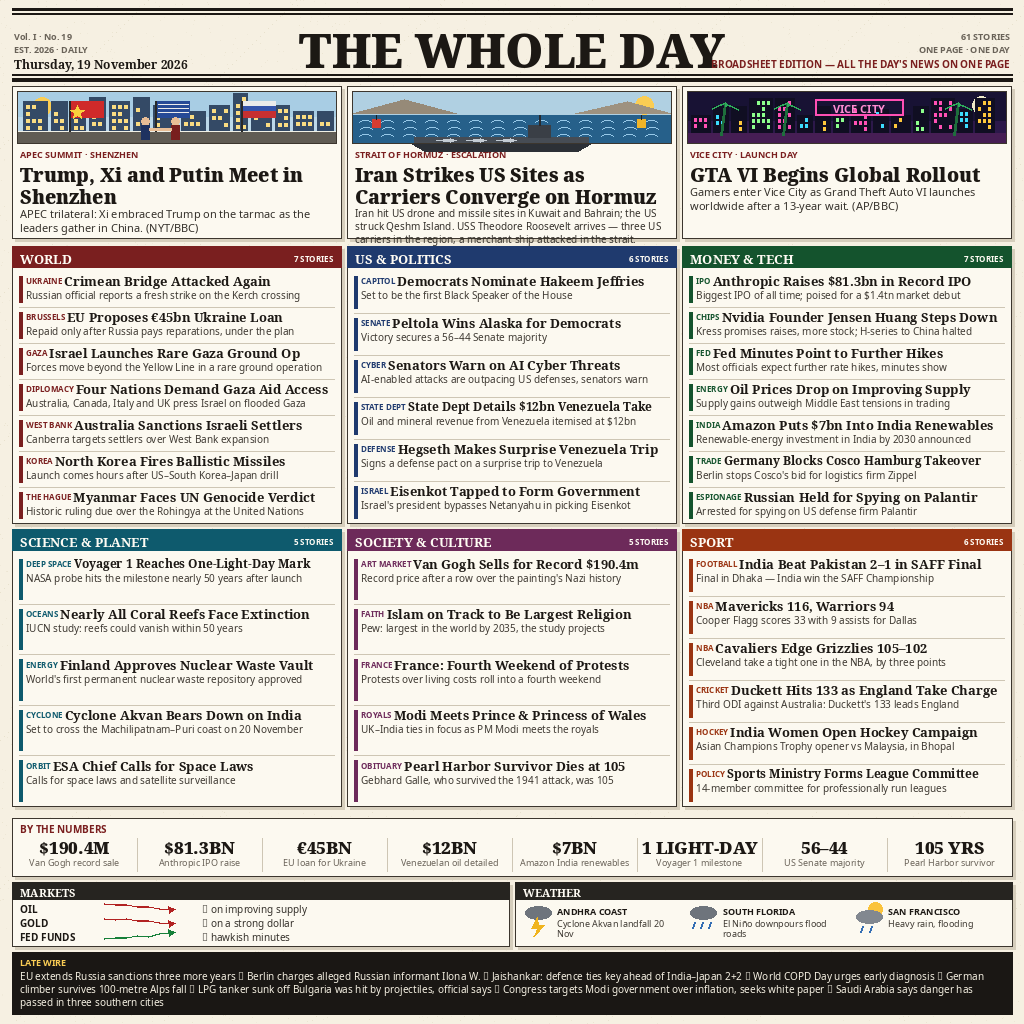
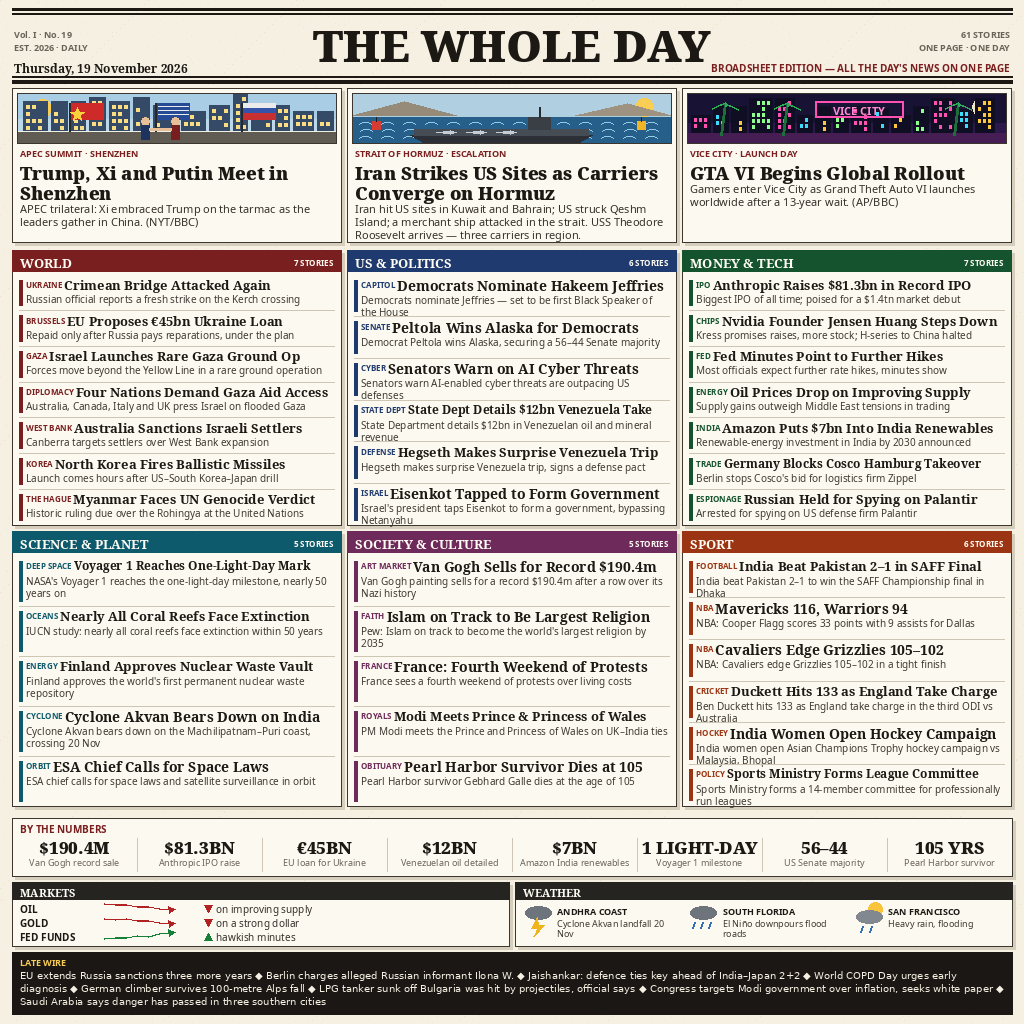
Revision rounds 1-2: fix masthead/hero overflow, drawn market arrows + DejaVu ticker glyphs, denser 2-line decks for 5-6 story sections, carrier kept in frame

Changed region(s): [[0.0, 0.0312, 1.0, 0.8125], [0.0312, 0.875, 0.9688, 1.0]]

diff --git a/daypage.py b/daypage.py
@@ -20,6 +20,7 @@ SERIF_REG = f"{NOTO}/NotoSerif-Regular.ttf"
 SANS_BOLD = f"{NOTO}/NotoSans-Bold.ttf"
 SANS_SEMI = f"{NOTO}/NotoSans-SemiBold.ttf"
 SANS_REG = f"{NOTO}/NotoSans-Regular.ttf"
+DEJAVU_SANS = "/usr/share/fonts/truetype/dejavu/DejaVuSans.ttf"  # has \u25c6\u25bc\u25b2
 
 _fonts = {}
 
@@ -50,10 +51,9 @@ HEROES = [
         "kind": "hormuz",
         "kicker": "STRAIT OF HORMUZ · ESCALATION",
         "headline": "Iran Strikes US Sites as Carriers Converge on Hormuz",
-        "deck": "Iran hit US drone and missile sites in Kuwait and Bahrain; "
-                "the US struck Qeshm Island. USS Theodore Roosevelt arrives "
-                "\u2014 three US carriers in the region, a merchant ship "
-                "attacked in the strait.",
+        "deck": "Iran hit US sites in Kuwait and Bahrain; US struck Qeshm "
+                "Island; a merchant ship attacked in the strait. USS Theodore "
+                "Roosevelt arrives \u2014 three carriers in region.",
     },
     {
         "kind": "vicecity",
@@ -84,17 +84,17 @@ SECTIONS = [
     ]),
     ("US & POLITICS", (31, 58, 110), [
         ("CAPITOL", "Democrats Nominate Hakeem Jeffries",
-         "Set to be the first Black Speaker of the House"),
+         "Democrats nominate Jeffries \u2014 set to be first Black Speaker of the House"),
         ("SENATE", "Peltola Wins Alaska for Democrats",
-         "Victory secures a 56\u201344 Senate majority"),
+         "Democrat Peltola wins Alaska, securing a 56\u201344 Senate majority"),
         ("CYBER", "Senators Warn on AI Cyber Threats",
-         "AI-enabled attacks are outpacing US defenses, senators warn"),
+         "Senators warn AI-enabled cyber threats are outpacing US defenses"),
         ("STATE DEPT", "State Dept Details $12bn Venezuela Take",
-         "Oil and mineral revenue from Venezuela itemised at $12bn"),
+         "State Department details $12bn in Venezuelan oil and mineral revenue"),
         ("DEFENSE", "Hegseth Makes Surprise Venezuela Trip",
-         "Signs a defense pact on a surprise trip to Venezuela"),
+         "Hegseth makes surprise Venezuela trip, signs a defense pact"),
         ("ISRAEL", "Eisenkot Tapped to Form Government",
-         "Israel's president bypasses Netanyahu in picking Eisenkot"),
+         "Israel's president taps Eisenkot to form a government, bypassing Netanyahu"),
     ]),
     ("MONEY & TECH", (20, 83, 45), [
         ("IPO", "Anthropic Raises $81.3bn in Record IPO",
@@ -114,41 +114,41 @@ SECTIONS = [
     ]),
     ("SCIENCE & PLANET", (14, 90, 109), [
         ("DEEP SPACE", "Voyager 1 Reaches One-Light-Day Mark",
-         "NASA probe hits the milestone nearly 50 years after launch"),
+         "NASA's Voyager 1 reaches the one-light-day milestone, nearly 50 years on"),
         ("OCEANS", "Nearly All Coral Reefs Face Extinction",
-         "IUCN study: reefs could vanish within 50 years"),
+         "IUCN study: nearly all coral reefs face extinction within 50 years"),
         ("ENERGY", "Finland Approves Nuclear Waste Vault",
-         "World's first permanent nuclear waste repository approved"),
+         "Finland approves the world's first permanent nuclear waste repository"),
         ("CYCLONE", "Cyclone Akvan Bears Down on India",
-         "Set to cross the Machilipatnam\u2013Puri coast on 20 November"),
+         "Cyclone Akvan bears down on the Machilipatnam\u2013Puri coast, crossing 20 Nov"),
         ("ORBIT", "ESA Chief Calls for Space Laws",
-         "Calls for space laws and satellite surveillance"),
+         "ESA chief calls for space laws and satellite surveillance in orbit"),
     ]),
     ("SOCIETY & CULTURE", (109, 42, 90), [
         ("ART MARKET", "Van Gogh Sells for Record $190.4m",
-         "Record price after a row over the painting's Nazi history"),
+         "Van Gogh painting sells for a record $190.4m after a row over its Nazi history"),
         ("FAITH", "Islam on Track to Be Largest Religion",
-         "Pew: largest in the world by 2035, the study projects"),
+         "Pew: Islam on track to become the world's largest religion by 2035"),
         ("FRANCE", "France: Fourth Weekend of Protests",
-         "Protests over living costs roll into a fourth weekend"),
+         "France sees a fourth weekend of protests over living costs"),
         ("ROYALS", "Modi Meets Prince & Princess of Wales",
-         "UK\u2013India ties in focus as PM Modi meets the royals"),
+         "PM Modi meets the Prince and Princess of Wales on UK\u2013India ties"),
         ("OBITUARY", "Pearl Harbor Survivor Dies at 105",
-         "Gebhard Galle, who survived the 1941 attack, was 105"),
+         "Pearl Harbor survivor Gebhard Galle dies at the age of 105"),
     ]),
     ("SPORT", (154, 52, 18), [
         ("FOOTBALL", "India Beat Pakistan 2\u20131 in SAFF Final",
-         "Final in Dhaka \u2014 India win the SAFF Championship"),
+         "India beat Pakistan 2\u20131 to win the SAFF Championship final in Dhaka"),
         ("NBA", "Mavericks 116, Warriors 94",
-         "Cooper Flagg scores 33 with 9 assists for Dallas"),
+         "NBA: Cooper Flagg scores 33 points with 9 assists for Dallas"),
         ("NBA", "Cavaliers Edge Grizzlies 105\u2013102",
-         "Cleveland take a tight one in the NBA, by three points"),
+         "NBA: Cavaliers edge Grizzlies 105\u2013102 in a tight finish"),
         ("CRICKET", "Duckett Hits 133 as England Take Charge",
-         "Third ODI against Australia: Duckett's 133 leads England"),
+         "Ben Duckett hits 133 as England take charge in the third ODI vs Australia"),
         ("HOCKEY", "India Women Open Hockey Campaign",
-         "Asian Champions Trophy opener vs Malaysia, in Bhopal"),
+         "India women open Asian Champions Trophy hockey campaign vs Malaysia, Bhopal"),
         ("POLICY", "Sports Ministry Forms League Committee",
-         "14-member committee for professionally run leagues"),
+         "Sports Ministry forms a 14-member committee for professionally run leagues"),
     ]),
 ]
 
@@ -163,10 +163,10 @@ NUMBERS = [
     ("105 YRS", "Pearl Harbor survivor"),
 ]
 
-MARKETS = [  # (name, note, points, colour, up?)
-    ("OIL", "\u25bc on improving supply", [38, 34, 35, 28, 29, 22, 18], (178, 34, 34), False),
-    ("GOLD", "\u25bc on a strong dollar", [36, 33, 34, 27, 28, 21, 17], (178, 34, 34), False),
-    ("FED FUNDS", "\u25b2 hawkish minutes", [14, 18, 17, 24, 23, 30, 34], (22, 128, 57), True),
+MARKETS = [  # (name, note, points, colour, up?) — arrow drawn as a polygon
+    ("OIL", "on improving supply", [38, 34, 35, 28, 29, 22, 18], (178, 34, 34), False),
+    ("GOLD", "on a strong dollar", [36, 33, 34, 27, 28, 21, 17], (178, 34, 34), False),
+    ("FED FUNDS", "hawkish minutes", [14, 18, 17, 24, 23, 30, 34], (22, 128, 57), True),
 ]
 
 WEATHER = [  # (place, note, icon)
@@ -309,7 +309,7 @@ def illus_hormuz(d, x, y, x2, y2):
     for wy in range(sea + 5, y2 - 3, 7):  # wave arcs
         for wx in range(x + rng.randint(0, 8), x2 - 12, 22):
             d.arc([wx, wy, wx + 12, wy + 5], 180, 360, fill=(150, 200, 232), width=1)
-    cx, cy = x + 58, sea + 12  # aircraft carrier
+    cx, cy = x + 58, sea + 2  # aircraft carrier (hull bottom stays in frame)
     d.polygon([(cx, cy + 16), (cx + 14, cy + 24), (cx + 168, cy + 24),
                (cx + 182, cy + 16)], fill=(44, 48, 54))
     d.rectangle([cx + 4, cy + 10, cx + 178, cy + 16], fill=(70, 76, 84))
@@ -381,52 +381,52 @@ def main():
     # ---- masthead ------------------------------------------------------
     d.rectangle([M, 8, W - M, 10], fill=INK)
     d.rectangle([M, 13, W - M, 14], fill=INK)
-    f_title = F(SERIF_BLACK, 47)
+    f_title = F(SERIF_BLACK, 44)
     title = "THE WHOLE DAY"
-    d.text(((W - tw(d, title, f_title)) / 2, 17), title, font=f_title, fill=INK)
+    d.text(((W - tw(d, title, f_title)) / 2, 14), title, font=f_title, fill=INK)
     f_side = F(SANS_BOLD, 9)
-    d.text((M + 2, 30), "Vol. I \u00b7 No. 19", font=f_side, fill=GREY)
-    d.text((M + 2, 43), "EST. 2026 \u00b7 DAILY", font=f_side, fill=GREY)
+    d.text((M + 2, 28), "Vol. I \u00b7 No. 19", font=f_side, fill=GREY)
+    d.text((M + 2, 41), "EST. 2026 \u00b7 DAILY", font=f_side, fill=GREY)
     right = f"{STORY_COUNT} STORIES"
-    d.text((W - M - 2 - tw(d, right, f_side), 30), right, font=f_side, fill=GREY)
-    d.text((W - M - 2 - tw(d, "ONE PAGE \u00b7 ONE DAY", f_side), 43),
+    d.text((W - M - 2 - tw(d, right, f_side), 28), right, font=f_side, fill=GREY)
+    d.text((W - M - 2 - tw(d, "ONE PAGE \u00b7 ONE DAY", f_side), 41),
            "ONE PAGE \u00b7 ONE DAY", font=f_side, fill=GREY)
     f_date = F(SERIF_BOLD, 12)
-    d.text((M + 2, 56), "Thursday, 19 November 2026", font=f_date, fill=INK)
+    d.text((M + 2, 60), "Thursday, 19 November 2026", font=f_date, fill=INK)
     f_ed = F(SANS_BOLD, 10)
     ed = "BROADSHEET EDITION \u2014 ALL THE DAY'S NEWS ON ONE PAGE"
-    d.text((W - M - 2 - tw(d, ed, f_ed), 57), ed, font=f_ed, fill=(122, 31, 31))
-    d.rectangle([M, 74, W - M, 75], fill=INK)
-    d.rectangle([M, 78, W - M, 81], fill=INK)
+    d.text((W - M - 2 - tw(d, ed, f_ed), 61), ed, font=f_ed, fill=(122, 31, 31))
+    d.rectangle([M, 76, W - M, 77], fill=INK)
+    d.rectangle([M, 80, W - M, 83], fill=INK)
 
     # ---- heroes ----------------------------------------------------------
-    hy, hh = 86, 152
+    hy, hh = 88, 154
     hgap = 6
     hw = (CW - 2 * hgap) // 3
     for i, hero in enumerate(HEROES):
         x = M + i * (hw + hgap)
         x2, y2 = x + hw, hy + hh
         panel(d, x, hy, x2, y2)
-        ILLUS[hero["kind"]](d, x + 5, hy + 5, x2 - 5, hy + 57)
-        d.rectangle([x + 5, hy + 5, x2 - 5, hy + 57], outline=RULE, width=1)
-        ky = hy + 62
+        ILLUS[hero["kind"]](d, x + 5, hy + 5, x2 - 5, hy + 55)
+        d.rectangle([x + 5, hy + 5, x2 - 5, hy + 55], outline=RULE, width=1)
+        ky = hy + 59
         fk = F(SANS_BOLD, 9)
         d.text((x + 8, ky), hero["kicker"], font=fk, fill=(122, 31, 31))
-        fh, hlines = fit_lines(d, hero["headline"], SERIF_BLACK, 19, 13,
+        fh, hlines = fit_lines(d, hero["headline"], SERIF_BLACK, 18, 13,
                                hw - 16, 2)
         ty = ky + 13
         for ln in hlines:
             d.text((x + 8, ty), ln, font=fh, fill=INK)
-            ty += fh.size + 3
+            ty += fh.size + 2
         fd, dlines = fit_lines(d, hero["deck"], SANS_REG, 11, 9,
                                hw - 16, 3)
         for ln in dlines:
             d.text((x + 8, ty + 1), ln, font=fd, fill=(52, 48, 42))
-            ty += fd.size + 3
+            ty += fd.size + 2
 
     # ---- six sections, 3 columns x 2 rows --------------------------------
-    sy = hy + hh + 8            # 246
-    sh_total = 566
+    sy = hy + hh + 8            # 250
+    sh_total = 562
     row_h = sh_total // 2
     sgap = 6
     sw = (CW - 2 * sgap) // 3
@@ -453,12 +453,12 @@ def main():
             fk = F(SANS_BOLD, 8)
             kw = tw(d, kick, fk)
             d.text((x + 14, cy + 4), kick, font=fk, fill=colour)
-            fh, headline = one_line(d, head, SERIF_BOLD, 13, 11,
-                                    sw - 28 - kw)
+            fh, headline = one_line(d, head, SERIF_BOLD, 14 if n <= 6 else 13,
+                                    11, sw - 28 - kw)
             d.text((x + 16 + kw, cy + 1), headline, font=fh, fill=INK)
-            max_dl = 2 if card_h >= 44 else 1
+            max_dl = 2 if card_h >= 40 else 1
             fd, dlines = fit_lines(d, deck, SANS_REG, 10, 9, sw - 22, max_dl)
-            dy = cy + 17
+            dy = cy + (18 if n <= 6 else 17)
             for ln in dlines:
                 d.text((x + 14, dy), ln, font=fd, fill=(62, 57, 50))
                 dy += fd.size + 2
@@ -498,13 +498,11 @@ def main():
         d.text((x + 8, my + 3), title, font=f_mt, fill=(255, 252, 244))
     # markets: three rows with sparklines
     mx = M
-    for i, (name, note, pts, colr, _up) in enumerate(MARKETS):
+    for i, (name, note, pts, colr, up) in enumerate(MARKETS):
         ry = my + 20 + i * 14
         f_mn = F(SANS_BOLD, 10)
         d.text((mx + 8, ry), name, font=f_mn, fill=INK)
-        sx0, sy0 = mx + 92, ry + 1
-        for a, b in zip(pts, pts[1:]):
-            pass
+        sx0 = mx + 92
         prev = None
         for k, p in enumerate(pts):
             px = sx0 + k * 11
@@ -514,8 +512,13 @@ def main():
             prev = (px, py)
         d.polygon([(prev[0] + 5, prev[1]), (prev[0] - 2, prev[1] - 3),
                    (prev[0] - 1, prev[1] + 4)], fill=colr)
+        ax, ay = mx + 192, ry + 3  # direction triangle (Noto Sans lacks \u25bc\u25b2)
+        if up:
+            d.polygon([(ax, ay + 7), (ax + 4, ay), (ax + 8, ay + 7)], fill=colr)
+        else:
+            d.polygon([(ax, ay), (ax + 8, ay), (ax + 4, ay + 7)], fill=colr)
         f_no = F(SANS_REG, 10)
-        d.text((mx + 190, ry), note, font=f_no, fill=(52, 48, 42))
+        d.text((mx + 204, ry), note, font=f_no, fill=(52, 48, 42))
     # weather: three columns with icons
     wx0 = M + half + sgap
     wcell = half / 3
@@ -553,7 +556,7 @@ def main():
     f_tl = F(SANS_BOLD, 9)
     d.text((M + 8, ty0 + 4), "LATE WIRE", font=f_tl, fill=(250, 205, 84))
     tick = "  \u25c6  ".join(TICKER)
-    f_tk, tlines = fit_lines(d, tick, SANS_REG, 10, 9, CW - 16, 4)
+    f_tk, tlines = fit_lines(d, tick, DEJAVU_SANS, 10, 9, CW - 16, 4)
     ly = ty0 + 17
     for ln in tlines:
         d.text((M + 8, ly), ln, font=f_tk, fill=(245, 240, 226))
